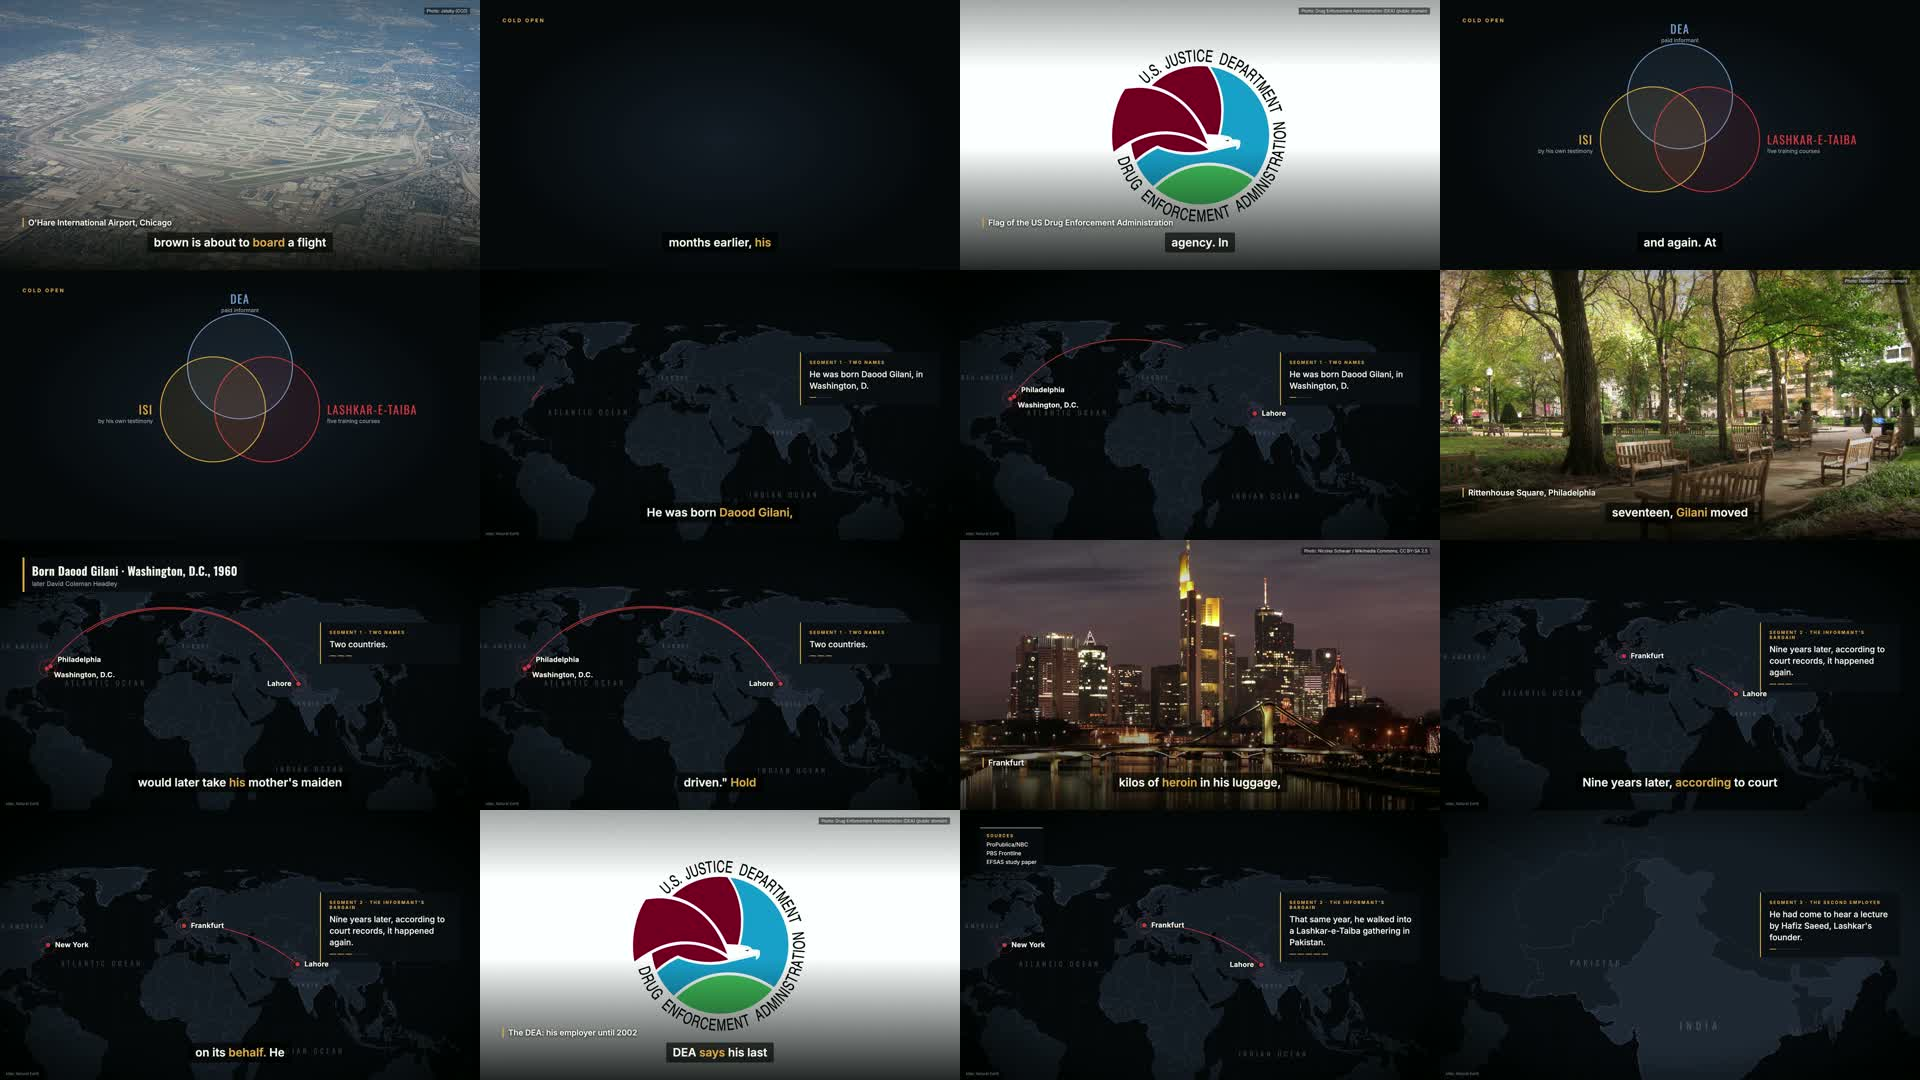
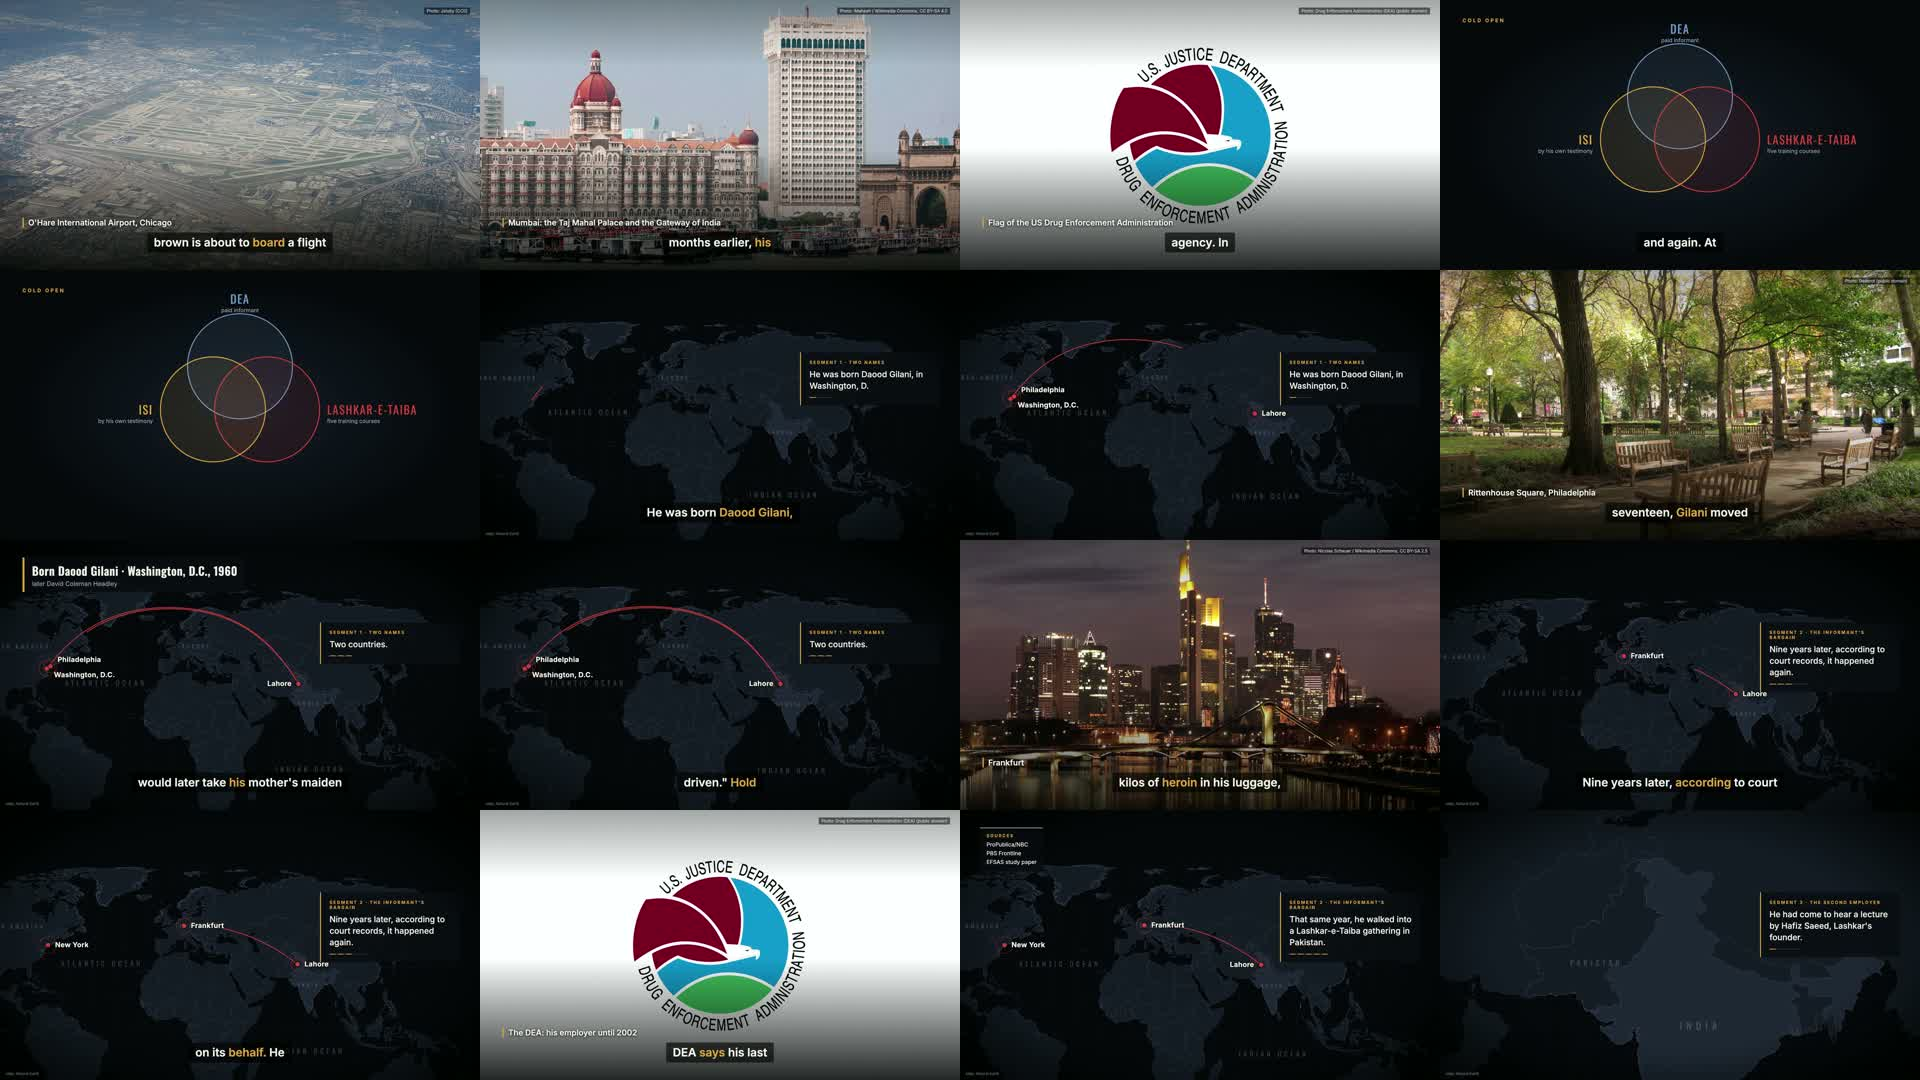
File 04 v1.1: fill the cold-open gap with photos

Changed region(s): [[0.0, 0.0, 0.5, 0.2444], [0.5625, 0.0917, 0.6875, 0.2139], [0.5938, 0.0306, 0.6562, 0.0917]]

diff --git a/mercenary/CHANGELOG.md b/mercenary/CHANGELOG.md
@@ -11,3 +11,8 @@
 - New scenes: `venn`, `checklist`; South Mumbai city basemap added to the world-map MapScene.
 - 25 photo moments (US-government public domain, CC0, CC BY / BY-SA); Headley stays a silhouette.
 - Pronunciation: Daood Gilani, Faiza Outalha, Ishrat Jahan, Ilyas Kashmiri, Islamabad, al-Qaeda, DEA, FBI added.
+
+## v1.1 — audit round 1
+- Cold open: the 6–24 s stretch between the O'Hare photo and the first circle was an empty dark frame.
+  Now carried by photos on the spoken words (O'Hare held through "sent him", FBI badge at "never boards",
+  Mumbai at "Eleven months earlier", Jyllands-Posten at "Denmark", DEA flag at "paid informant").

diff --git a/mercenary/output/youtube_upload.md b/mercenary/output/youtube_upload.md
@@ -1,4 +1,4 @@
-# YouTube upload kit — The Mercenary (v1.0)
+# YouTube upload kit — The Mercenary (v1.1)
 
 ## Title (61/100)
 The Mercenary: The David Headley Story | The Sisodia Files 04
